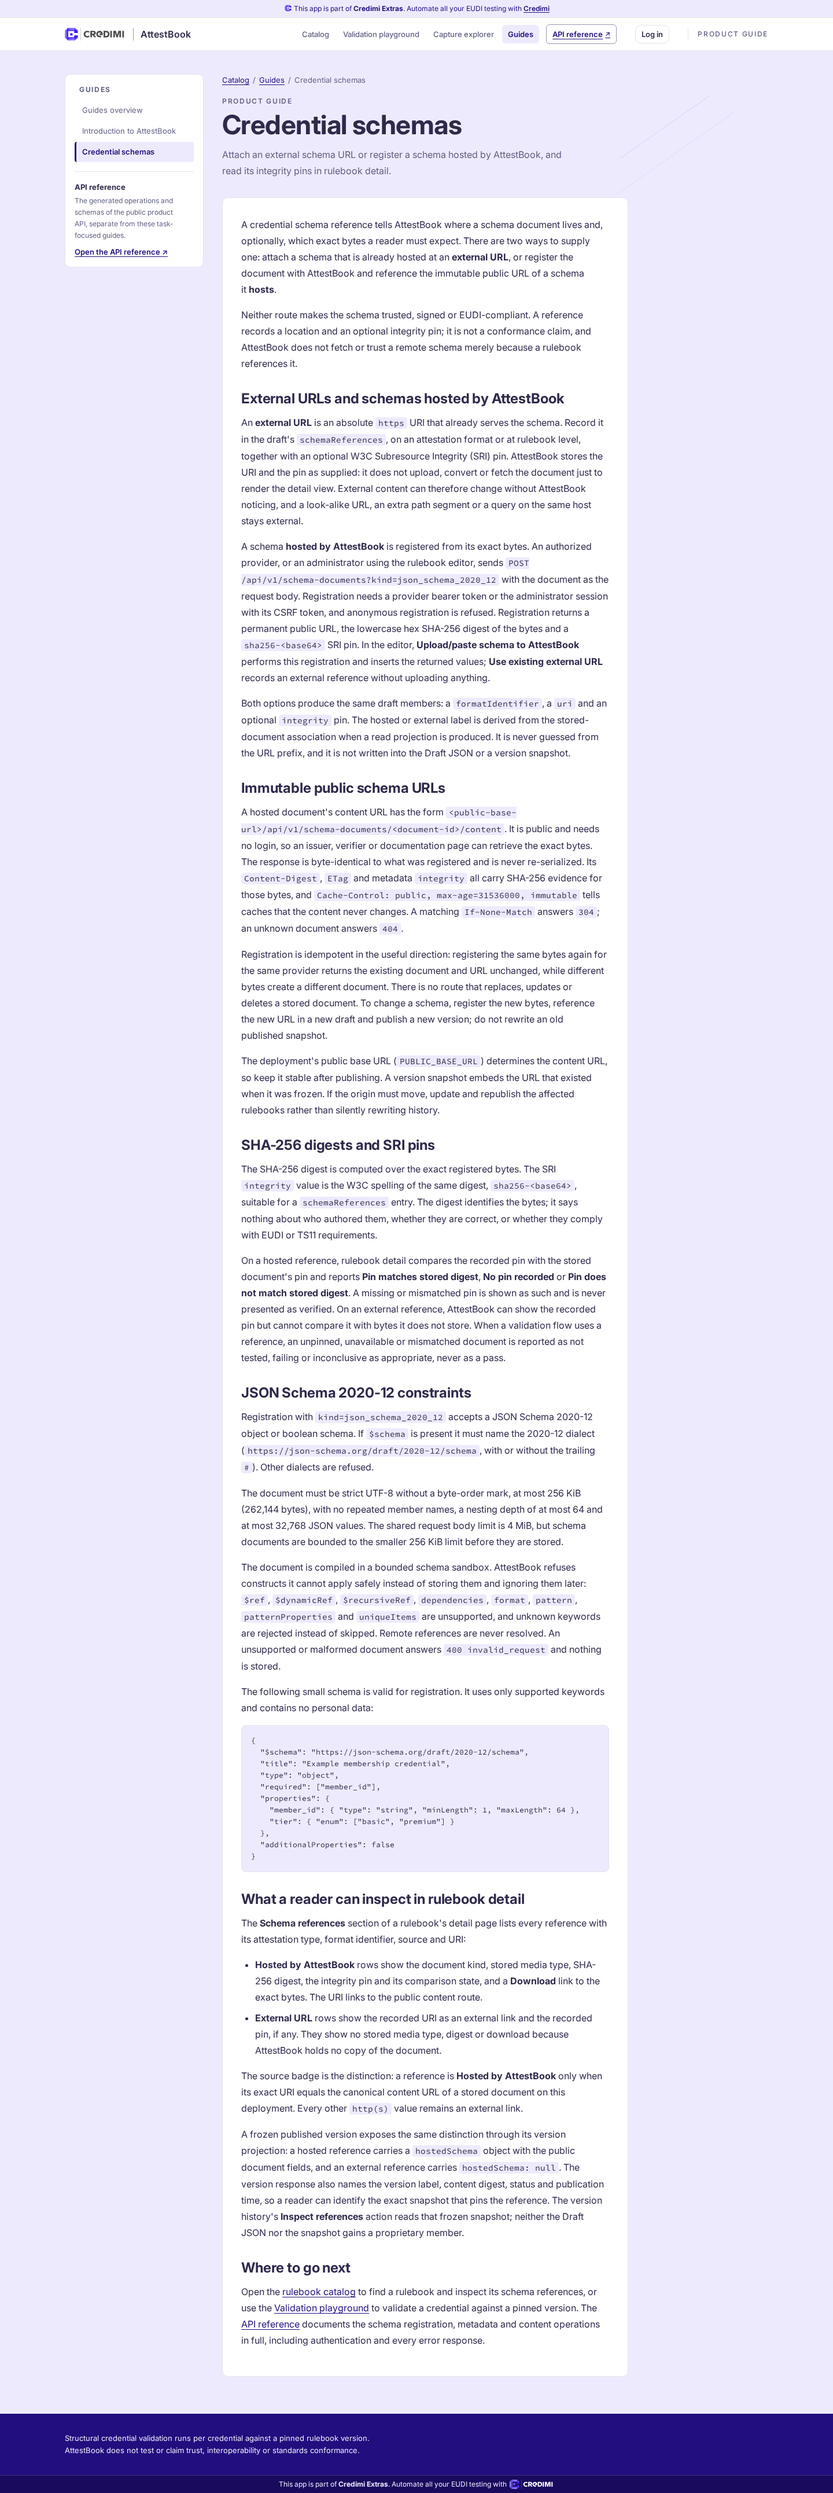
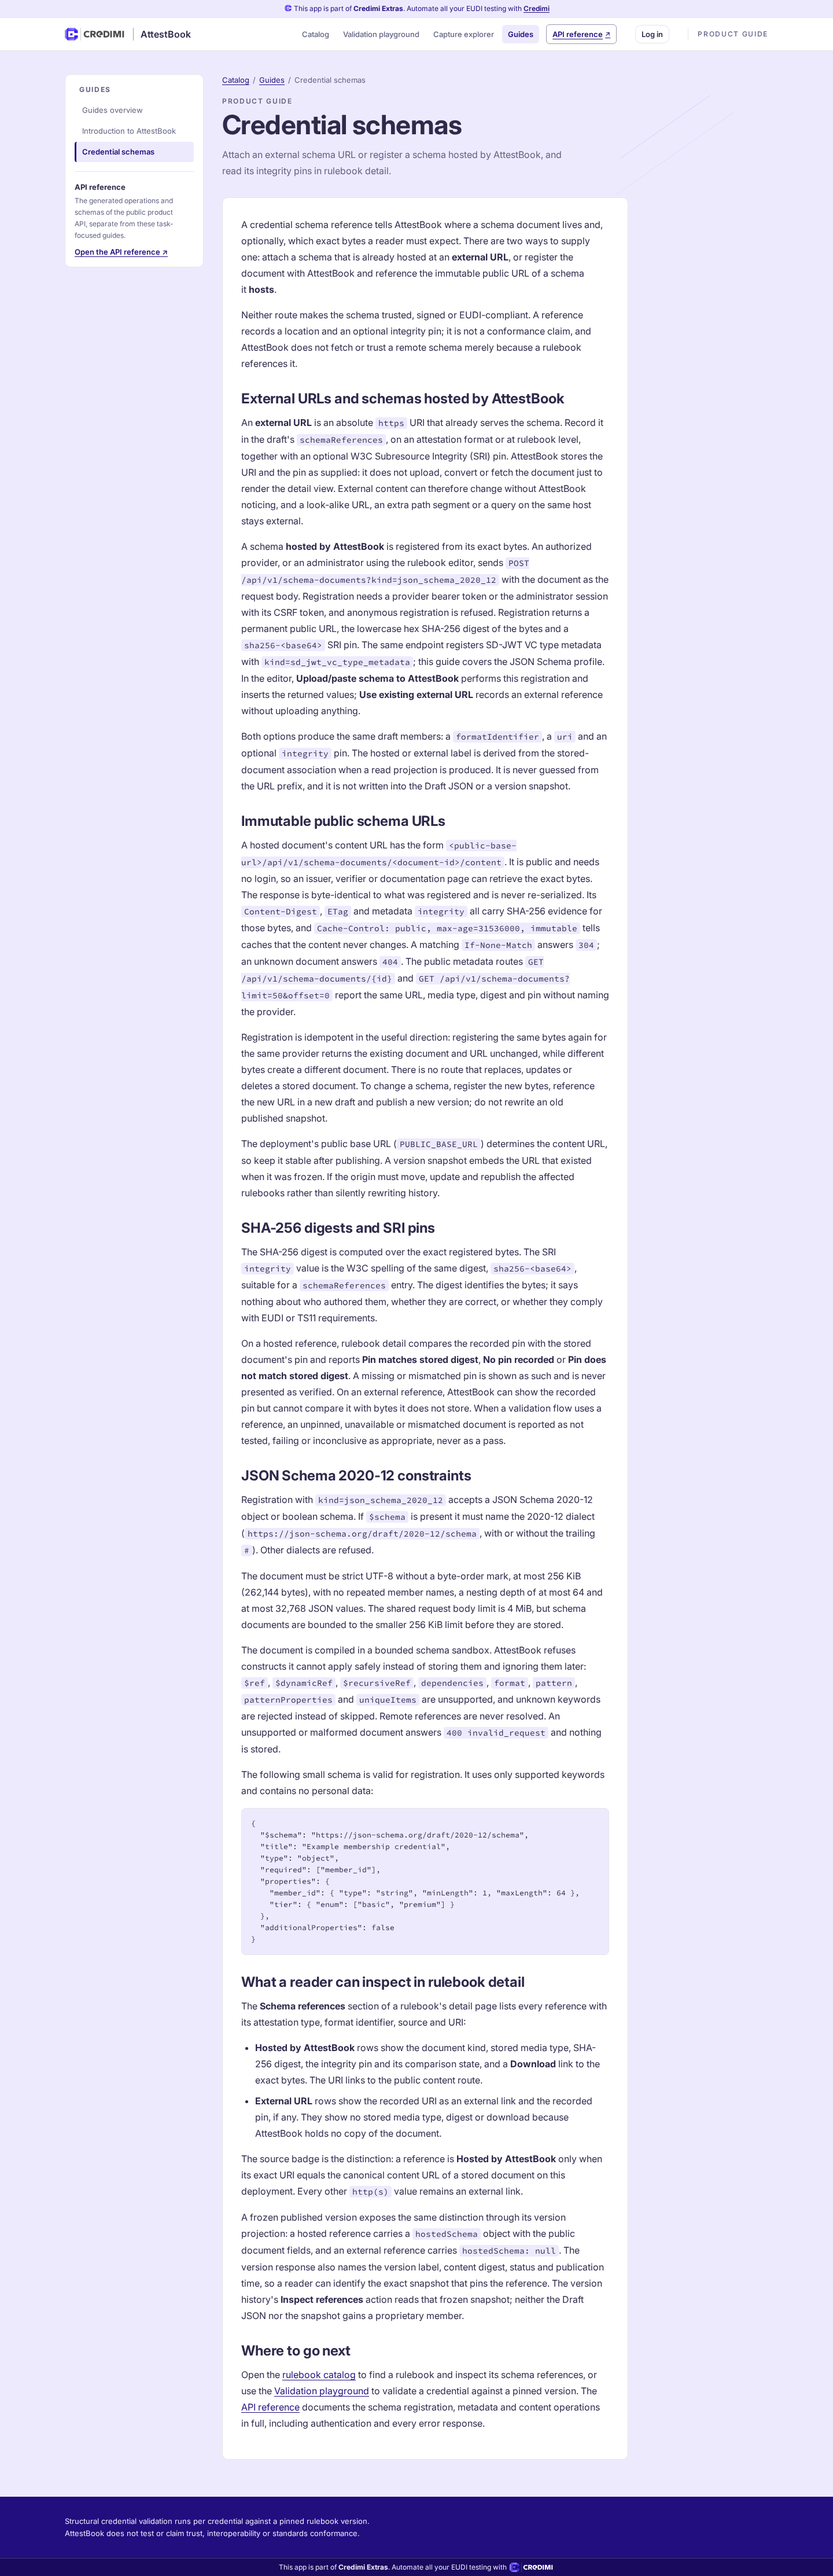
docs(guide): document schema metadata routes and type metadata
Mention the public metadata endpoints and the SD-JWT VC type metadata profile alongside the JSON Schema path, and cover both in the component test.

Changed region(s): [[0.0625, 0.0311, 0.7188, 1.0], [0.0938, 0.0311, 0.2188, 0.1244], [0.6562, 0.0, 0.7188, 0.0311]]

diff --git a/ui/src/guide.test.tsx b/ui/src/guide.test.tsx
@@ -430,6 +430,8 @@ describe('product guide views', () => {
     expect(article).toHaveTextContent('Hosted by AttestBook')
     expect(article).toHaveTextContent('External URL')
     expect(article).toHaveTextContent('/api/v1/schema-documents')
+    expect(article).toHaveTextContent('/api/v1/schema-documents?limit=50&offset=0')
+    expect(article).toHaveTextContent('kind=sd_jwt_vc_type_metadata')
     expect(article).toHaveTextContent('sha256-<base64>')
     expect(
       within(article as HTMLElement).getByRole('link', { name: 'rulebook catalog' }),

diff --git a/docs/guides/credential-schemas.md b/docs/guides/credential-schemas.md
@@ -21,9 +21,11 @@ or an administrator using the rulebook editor, sends `POST
 /api/v1/schema-documents?kind=json_schema_2020_12` with the document as the request body.
 Registration needs a provider bearer token or the administrator session with its CSRF token,
 and anonymous registration is refused. Registration returns a permanent public URL, the
-lowercase hex SHA-256 digest of the bytes and a `sha256-<base64>` SRI pin. In the editor,
-**Upload/paste schema to AttestBook** performs this registration and inserts the returned
-values; **Use existing external URL** records an external reference without uploading anything.
+lowercase hex SHA-256 digest of the bytes and a `sha256-<base64>` SRI pin. The same endpoint
+registers SD-JWT VC type metadata with `kind=sd_jwt_vc_type_metadata`; this guide covers the
+JSON Schema profile. In the editor, **Upload/paste schema to AttestBook** performs this
+registration and inserts the returned values; **Use existing external URL** records an external
+reference without uploading anything.
 
 Both options produce the same draft members: a `formatIdentifier`, a `uri` and an optional
 `integrity` pin. The hosted or external label is derived from the stored-document association
@@ -38,7 +40,10 @@ login, so an issuer, verifier or documentation page can retrieve the exact bytes
 is byte-identical to what was registered and is never re-serialized. Its `Content-Digest`,
 `ETag` and metadata `integrity` all carry SHA-256 evidence for those bytes, and
 `Cache-Control: public, max-age=31536000, immutable` tells caches that the content never
-changes. A matching `If-None-Match` answers `304`; an unknown document answers `404`.
+changes. A matching `If-None-Match` answers `304`; an unknown document answers `404`. The
+public metadata routes `GET /api/v1/schema-documents/{id}` and
+`GET /api/v1/schema-documents?limit=50&offset=0` report the same URL, media type, digest and
+pin without naming the provider.
 
 Registration is idempotent in the useful direction: registering the same bytes again for the
 same provider returns the existing document and URL unchanged, while different bytes create a
